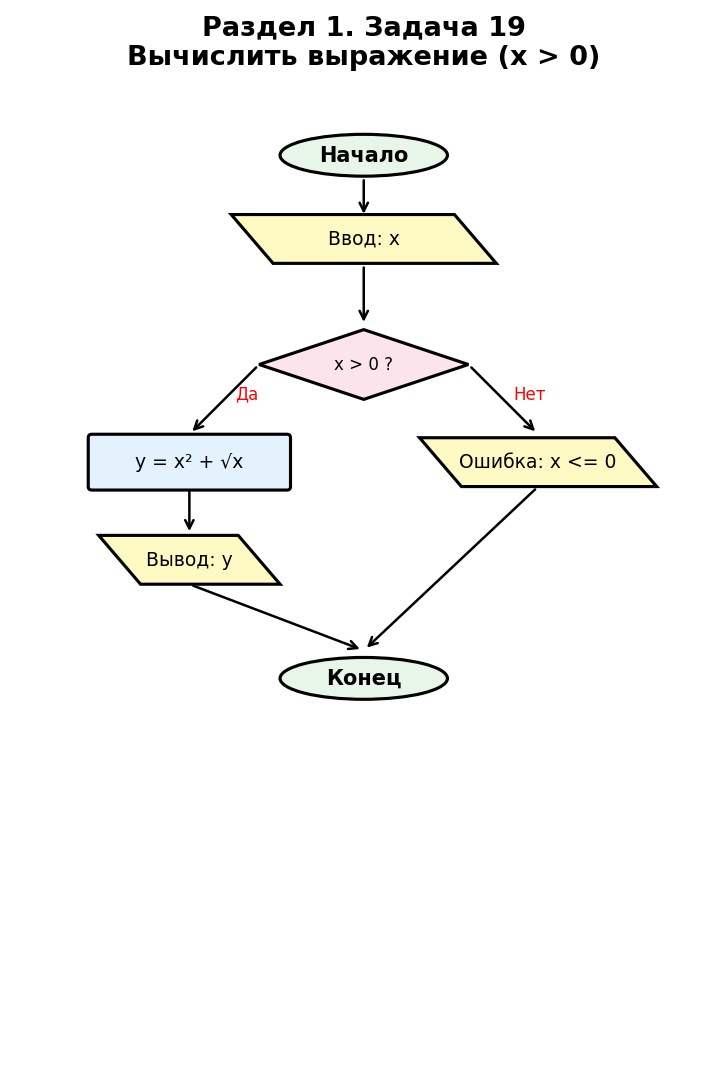
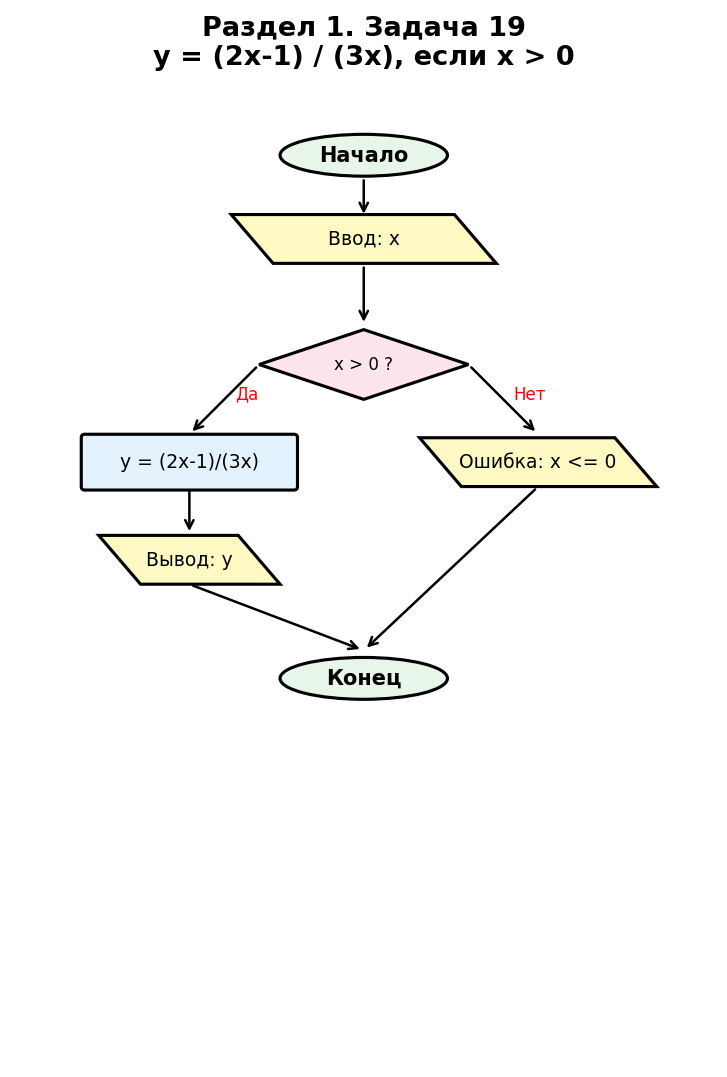
Исправлены блок-схемы задач 4,12,13,17,18,19,20,21,22 по рисункам из методички

diff --git a/lab_tasks/draw_flowcharts_extra.py b/lab_tasks/draw_flowcharts_extra.py
@@ -58,37 +58,29 @@ def save(fig, name):
     print(f"  Saved: {name}")
 
 
-# Задача 4: Трассировка алгоритма A,B,C,D
+# Задача 4 (Рисунок 1): Линейный алгоритм — перестановка значений D:=C, C:=B, B:=A
 def r1_z4():
-    fig, ax = new_fig("Раздел 1. Задача 4\nТрассировка алгоритма (A, B, C, D)", h=16)
+    fig, ax = new_fig("Раздел 1. Задача 4\nПерестановка значений (Рисунок 1)", h=12)
     cx = 5
-    oval(ax, cx, 15, "Начало")
-    arrow(ax, cx, 14.7, cx, 14.1)
-    para(ax, cx, 13.8, "Ввод: A, B, C, D")
-    arrow(ax, cx, 13.45, cx, 12.55)
-    diamond(ax, cx, 12.0, "A > B ?")
-    arrow(ax, 3.5, 12.0, 2.5, 11.0, "Да")
-    arrow(ax, 6.5, 12.0, 7.5, 11.0, "Нет")
-    rect(ax, 2.5, 10.6, "A = A + B", w=2.5)
-    rect(ax, 7.5, 10.6, "B = A + B", w=2.5)
-    arrow(ax, 2.5, 10.25, cx, 9.5)
-    arrow(ax, 7.5, 10.25, cx, 9.5)
-    diamond(ax, cx, 9.0, "C > D ?")
-    arrow(ax, 3.5, 9.0, 2.5, 8.0, "Да")
-    arrow(ax, 6.5, 9.0, 7.5, 8.0, "Нет")
-    rect(ax, 2.5, 7.6, "C = C - D", w=2.5)
-    rect(ax, 7.5, 7.6, "D = D - C", w=2.5)
-    arrow(ax, 2.5, 7.25, cx, 6.3)
-    arrow(ax, 7.5, 7.25, cx, 6.3)
-    para(ax, cx, 5.9, "Вывод: A, B, C, D")
-    arrow(ax, cx, 5.55, cx, 4.95)
-    oval(ax, cx, 4.7, "Конец")
+    oval(ax, cx, 11, "Начало")
+    arrow(ax, cx, 10.7, cx, 10.1)
+    para(ax, cx, 9.8, "Ввод: A, B, C, D")
+    arrow(ax, cx, 9.45, cx, 8.55)
+    rect(ax, cx, 8.2, "D := C")
+    arrow(ax, cx, 7.85, cx, 7.25)
+    rect(ax, cx, 6.9, "C := B")
+    arrow(ax, cx, 6.55, cx, 5.95)
+    rect(ax, cx, 5.6, "B := A")
+    arrow(ax, cx, 5.25, cx, 4.65)
+    para(ax, cx, 4.3, "Вывод: A, B, C, D")
+    arrow(ax, cx, 3.95, cx, 3.35)
+    oval(ax, cx, 3.1, "Конец")
     save(fig, "r1_z4.png")
 
 
-# Задача 12: Кусочная функция (x>0: y=x+1, иначе y=x-1)
+# Задача 12 (Рисунок 2): x > 0 → y=2x, иначе y=-2x
 def r1_z12():
-    fig, ax = new_fig("Раздел 1. Задача 12\nКусочная функция (ветвление)", h=13)
+    fig, ax = new_fig("Раздел 1. Задача 12\nВетвление (Рисунок 2)", h=13)
     cx = 5
     oval(ax, cx, 12, "Начало")
     arrow(ax, cx, 11.7, cx, 11.1)
@@ -97,8 +89,8 @@ def r1_z12():
     diamond(ax, cx, 9.0, "x > 0 ?")
     arrow(ax, 3.5, 9.0, 2.5, 8.0, "Да")
     arrow(ax, 6.5, 9.0, 7.5, 8.0, "Нет")
-    rect(ax, 2.5, 7.6, "y = x + 1", w=2.5)
-    rect(ax, 7.5, 7.6, "y = x - 1", w=2.5)
+    rect(ax, 2.5, 7.6, "y = 2x", w=2.2)
+    rect(ax, 7.5, 7.6, "y = -2x", w=2.2)
     arrow(ax, 2.5, 7.25, cx, 6.3)
     arrow(ax, 7.5, 7.25, cx, 6.3)
     para(ax, cx, 5.9, "Вывод: y")
@@ -107,88 +99,85 @@ def r1_z12():
     save(fig, "r1_z12.png")
 
 
-# Задача 13: Кусочная функция (n>0: y=n*2, n=0: y=0, n<0: y=-n)
+# Задача 13 (Рисунок 3): n>0 → "n-полож.", n<0 → "n-отриц.", n=0 → "n=0"
 def r1_z13():
-    fig, ax = new_fig("Раздел 1. Задача 13\nКусочная функция (3 ветви)", h=15)
-    cx = 5
-    oval(ax, cx, 14, "Начало")
-    arrow(ax, cx, 13.7, cx, 13.1)
-    para(ax, cx, 12.8, "Ввод: n")
-    arrow(ax, cx, 12.45, cx, 11.55)
-    diamond(ax, cx, 11.0, "n > 0 ?")
-    arrow(ax, 3.5, 11.0, 2, 10.0, "Да")
-    arrow(ax, 6.5, 11.0, 7.5, 10.0, "Нет")
-    rect(ax, 2, 9.6, "y = n * 2", w=2)
-    diamond(ax, 7.5, 9.5, "n = 0 ?", w=2.5, h=0.8)
-    arrow(ax, 6.25, 9.5, 5.5, 8.5, "Да")
-    arrow(ax, 8.75, 9.5, 9.2, 8.5, "Нет")
-    rect(ax, 5.5, 8.1, "y = 0", w=1.8)
-    rect(ax, 9.2, 8.1, "y = -n", w=1.8)
-    arrow(ax, 2, 9.25, cx, 7.0)
-    arrow(ax, 5.5, 7.75, cx, 7.0)
-    arrow(ax, 9.2, 7.75, cx, 7.0)
-    para(ax, cx, 6.6, "Вывод: y")
-    arrow(ax, cx, 6.25, cx, 5.65)
-    oval(ax, cx, 5.4, "Конец")
-    save(fig, "r1_z13.png")
-
-
-# Задача 17: Алгоритм с x и y
-def r1_z17():
-    fig, ax = new_fig("Раздел 1. Задача 17\nАлгоритм с x и y (ветвление)", h=14)
+    fig, ax = new_fig("Раздел 1. Задача 13\nОпределение знака числа (Рисунок 3)", h=14)
     cx = 5
     oval(ax, cx, 13, "Начало")
     arrow(ax, cx, 12.7, cx, 12.1)
-    para(ax, cx, 11.8, "Ввод: x, y")
+    para(ax, cx, 11.8, "Ввод: n")
     arrow(ax, cx, 11.45, cx, 10.55)
-    diamond(ax, cx, 10.0, "x > y ?")
-    arrow(ax, 3.5, 10.0, 2.5, 9.0, "Да")
+    diamond(ax, cx, 10.0, "n > 0 ?")
+    arrow(ax, 3.5, 10.0, 2, 9.0, "Да")
     arrow(ax, 6.5, 10.0, 7.5, 9.0, "Нет")
-    rect(ax, 2.5, 8.6, "z = x * y", w=2.5)
-    diamond(ax, 7.5, 8.5, "x = y ?", w=2.5, h=0.8)
-    arrow(ax, 6.25, 8.5, 5.5, 7.5, "Да")
+    para(ax, 2, 8.6, "\"n-полож.\"", w=2.5)
+    diamond(ax, 7.5, 8.5, "n < 0 ?", w=2.5, h=0.8)
+    arrow(ax, 6.25, 8.5, 5, 7.5, "Да")
     arrow(ax, 8.75, 8.5, 9, 7.5, "Нет")
-    rect(ax, 5.5, 7.1, "z = 0", w=1.8)
-    rect(ax, 9, 7.1, "z = x + y", w=2)
-    arrow(ax, 2.5, 8.25, cx, 5.9)
-    arrow(ax, 5.5, 6.75, cx, 5.9)
-    arrow(ax, 9, 6.75, cx, 5.9)
-    para(ax, cx, 5.5, "Вывод: z")
-    arrow(ax, cx, 5.15, cx, 4.55)
-    oval(ax, cx, 4.3, "Конец")
+    para(ax, 5, 7.1, "\"n-отриц.\"", w=2.5)
+    para(ax, 9, 7.1, "\"n=0\"", w=1.8)
+    arrow(ax, 2, 8.25, cx, 6.0)
+    arrow(ax, 5, 6.75, cx, 6.0)
+    arrow(ax, 9, 6.75, cx, 6.0)
+    oval(ax, cx, 5.6, "Конец")
+    save(fig, "r1_z13.png")
+
+
+# Задача 17 (Рисунок 4): Ввод x,y → x=0? → Да: Ошибка, Нет: z=y/x → Вывод
+def r1_z17():
+    fig, ax = new_fig("Раздел 1. Задача 17\nДеление y/x (Рисунок 4)", h=13)
+    cx = 5
+    oval(ax, cx, 12, "Начало")
+    arrow(ax, cx, 11.7, cx, 11.1)
+    para(ax, cx, 10.8, "Ввод: x, y")
+    arrow(ax, cx, 10.45, cx, 9.55)
+    diamond(ax, cx, 9.0, "x = 0 ?")
+    arrow(ax, 3.5, 9.0, 2.5, 8.0, "Да")
+    arrow(ax, 6.5, 9.0, 7.5, 8.0, "Нет")
+    para(ax, 2.5, 7.6, "Ошибка!", w=2.2)
+    rect(ax, 7.5, 7.6, "z = y / x", w=2.2)
+    arrow(ax, 7.5, 7.25, cx, 6.3)
+    arrow(ax, 2.5, 7.25, cx, 6.3)
+    para(ax, cx, 5.9, "Вывод: x, y, z")
+    arrow(ax, cx, 5.55, cx, 4.95)
+    oval(ax, cx, 4.7, "Конец")
     save(fig, "r1_z17.png")
 
 
-# Задача 18: Алгоритм с A,B,C (нахождение max)
+# Задача 18 (Рисунок 5): A=B → C=A+B, F=B+C | иначе B>C → A=A+B, F=A+C | иначе B=C+B, F=A+B
 def r1_z18():
-    fig, ax = new_fig("Раздел 1. Задача 18\nОпределение max(A, B, C)", h=16)
-    cx = 5
+    fig, ax = new_fig("Раздел 1. Задача 18\nАлгоритм с A, B, C (Рисунок 5)", h=16, w=8)
+    ax.set_xlim(0, 14)
+    cx = 7
     oval(ax, cx, 15, "Начало")
     arrow(ax, cx, 14.7, cx, 14.1)
     para(ax, cx, 13.8, "Ввод: A, B, C")
     arrow(ax, cx, 13.45, cx, 12.55)
-    diamond(ax, cx, 12.0, "A > B ?")
-    arrow(ax, 3.5, 12.0, 2.5, 11.0, "Да")
-    arrow(ax, 6.5, 12.0, 7.5, 11.0, "Нет")
-    rect(ax, 2.5, 10.6, "max = A", w=2)
-    rect(ax, 7.5, 10.6, "max = B", w=2)
-    arrow(ax, 2.5, 10.25, cx, 9.5)
-    arrow(ax, 7.5, 10.25, cx, 9.5)
-    diamond(ax, cx, 9.0, "C > max ?")
-    arrow(ax, 3.5, 9.0, 2.5, 8.0, "Да")
-    arrow(ax, 6.5, 9.0, 7.5, 8.0, "Нет")
-    rect(ax, 2.5, 7.6, "max = C", w=2)
-    arrow(ax, 2.5, 7.25, cx, 6.3)
-    arrow(ax, 7.5, 7.65, cx, 6.3)
-    para(ax, cx, 5.9, "Вывод: max")
-    arrow(ax, cx, 5.55, cx, 4.95)
-    oval(ax, cx, 4.7, "Конец")
+    diamond(ax, cx, 12.0, "A = B ?")
+    arrow(ax, 5.5, 12.0, 3, 11.0, "+")
+    arrow(ax, 8.5, 12.0, 10.5, 11.0, "-")
+    rect(ax, 2.2, 10.6, "C = A + B", w=2.2)
+    rect(ax, 4.2, 10.6, "F = B + C", w=2.2)
+    diamond(ax, 10.5, 10.5, "B > C ?", w=2.5, h=0.9)
+    arrow(ax, 9.25, 10.5, 7.5, 9.3, "+")
+    arrow(ax, 11.75, 10.5, 13, 9.3, "-")
+    rect(ax, 6.7, 8.9, "A = A + B", w=2.2)
+    rect(ax, 8.9, 8.9, "F = A + C", w=2.2)
+    rect(ax, 12.2, 8.9, "B = C + B", w=2.2)
+    rect(ax, 14.2, 8.9, "F = A + B", w=2.2)
+    # merge arrows
+    arrow(ax, 3, 10.25, cx, 7.5)
+    arrow(ax, 7.8, 8.55, cx, 7.5)
+    arrow(ax, 13, 8.55, cx, 7.5)
+    para(ax, cx, 7.1, "Вывод: F")
+    arrow(ax, cx, 6.75, cx, 6.15)
+    oval(ax, cx, 5.9, "Конец")
     save(fig, "r1_z18.png")
 
 
-# Задача 19: Вычислить выражение при x > 0
+# Задача 19: y = (2x - 1) / (3x), если x > 0
 def r1_z19():
-    fig, ax = new_fig("Раздел 1. Задача 19\nВычислить выражение (x > 0)", h=14)
+    fig, ax = new_fig("Раздел 1. Задача 19\ny = (2x-1) / (3x), если x > 0", h=14)
     cx = 5
     oval(ax, cx, 13, "Начало")
     arrow(ax, cx, 12.7, cx, 12.1)
@@ -197,7 +186,7 @@ def r1_z19():
     diamond(ax, cx, 10.0, "x > 0 ?")
     arrow(ax, 3.5, 10.0, 2.5, 9.0, "Да")
     arrow(ax, 6.5, 10.0, 7.5, 9.0, "Нет")
-    rect(ax, 2.5, 8.6, "y = x² + √x", w=2.8)
+    rect(ax, 2.5, 8.6, "y = (2x-1)/(3x)", w=3.0)
     para(ax, 7.5, 8.6, "Ошибка: x <= 0", w=2.8)
     arrow(ax, 2.5, 8.25, 2.5, 7.55)
     para(ax, 2.5, 7.2, "Вывод: y", w=2)
@@ -207,9 +196,9 @@ def r1_z19():
     save(fig, "r1_z19.png")
 
 
-# Задача 20: Вычислить выражение (b>0, d>0)
+# Задача 20: R = a/b - c/d, если b > 0 и d > 0
 def r1_z20():
-    fig, ax = new_fig("Раздел 1. Задача 20\nВычислить a/b - c/d (b>0, d>0)", h=14)
+    fig, ax = new_fig("Раздел 1. Задача 20\nR = a/b - c/d (b>0, d>0)", h=14)
     cx = 5
     oval(ax, cx, 13, "Начало")
     arrow(ax, cx, 12.7, cx, 12.1)
@@ -228,51 +217,60 @@ def r1_z20():
     save(fig, "r1_z20.png")
 
 
-# Задача 21: Цикл — сумма ряда (n задано)
+# Задача 21 (Рисунок 6): Цикл — S=0, k=n, while k>2: S=S+k, k=k-1
 def r1_z21():
-    fig, ax = new_fig("Раздел 1. Задача 21\nЦиклический алгоритм (сумма ряда)", h=14)
+    fig, ax = new_fig("Раздел 1. Задача 21\nЦикл: сумма от 3 до n (Рисунок 6)", h=15)
     cx = 5
-    oval(ax, cx, 13, "Начало")
-    arrow(ax, cx, 12.7, cx, 12.1)
-    para(ax, cx, 11.8, "Ввод: n")
-    arrow(ax, cx, 11.45, cx, 10.85)
-    rect(ax, cx, 10.5, "S = 0, i = 1")
-    arrow(ax, cx, 10.15, cx, 9.2)
-    diamond(ax, cx, 8.7, "i <= n ?")
+    oval(ax, cx, 14, "Начало")
+    arrow(ax, cx, 13.7, cx, 13.1)
+    para(ax, cx, 12.8, "Ввод: n")
+    arrow(ax, cx, 12.45, cx, 11.85)
+    rect(ax, cx, 11.5, "S = 0")
+    arrow(ax, cx, 11.15, cx, 10.55)
+    rect(ax, cx, 10.2, "k = n")
+    arrow(ax, cx, 9.85, cx, 9.2)
+    diamond(ax, cx, 8.7, "k > 2 ?")
     arrow(ax, 6.5, 8.7, 8, 8.7, "Нет")
     arrow(ax, cx, 8.2, cx, 7.55)
-    rect(ax, cx, 7.2, "S = S + i")
+    ax.text(cx + 0.2, 8.0, "Да", fontsize=8, color='red')
+    rect(ax, cx, 7.2, "S = S + k")
     arrow(ax, cx, 6.85, cx, 6.25)
-    rect(ax, cx, 5.9, "i = i + 1")
-    arrow(ax, cx, 5.55, 2, 5.9)
-    arrow(ax, 2, 5.9, 2, 8.7)
-    arrow(ax, 2, 8.7, 3.5, 8.7)
+    rect(ax, cx, 5.9, "k = k - 1")
+    # loop back
+    arrow(ax, cx, 5.55, 2.5, 5.55)
+    ax.annotate("", xy=(2.5, 8.7), xytext=(2.5, 5.55),
+                arrowprops=dict(arrowstyle='->', lw=1.2, color='black'))
+    ax.annotate("", xy=(3.5, 8.7), xytext=(2.5, 8.7),
+                arrowprops=dict(arrowstyle='->', lw=1.2, color='black'))
+    # "Нет" branch
     para(ax, 8, 8.3, "Вывод: S", w=2.2)
     arrow(ax, 8, 7.95, 8, 7.35)
     oval(ax, 8, 7.1, "Конец")
     save(fig, "r1_z21.png")
 
 
-# Задача 22: Определение чётности числа (по блок-схеме)
+# Задача 22 (Рисунок 7): Ввод a,b → a>b? → +: Y:=b, -: Y:=a → Вывод (нахождение min)
 def r1_z22():
-    fig, ax = new_fig("Раздел 1. Задача 22\nОпределение чётности числа", h=13)
+    fig, ax = new_fig("Раздел 1. Задача 22\nНахождение min(a,b) (Рисунок 7)", h=13)
     cx = 5
     oval(ax, cx, 12, "Начало")
     arrow(ax, cx, 11.7, cx, 11.1)
-    para(ax, cx, 10.8, "Ввод: n")
+    para(ax, cx, 10.8, "Ввод: a, b")
     arrow(ax, cx, 10.45, cx, 9.55)
-    diamond(ax, cx, 9.0, "n % 2 = 0 ?")
-    arrow(ax, 3.5, 9.0, 2.5, 8.0, "Да")
-    arrow(ax, 6.5, 9.0, 7.5, 8.0, "Нет")
-    para(ax, 2.5, 7.6, "Чётное", w=2.2)
-    para(ax, 7.5, 7.6, "Нечётное", w=2.2)
+    diamond(ax, cx, 9.0, "a > b ?")
+    arrow(ax, 3.5, 9.0, 2.5, 8.0, "+")
+    arrow(ax, 6.5, 9.0, 7.5, 8.0, "-")
+    rect(ax, 2.5, 7.6, "Y := b", w=2.2)
+    rect(ax, 7.5, 7.6, "Y := a", w=2.2)
     arrow(ax, 2.5, 7.25, cx, 6.3)
     arrow(ax, 7.5, 7.25, cx, 6.3)
-    oval(ax, cx, 6.0, "Конец")
+    para(ax, cx, 5.9, "Вывод: Y")
+    arrow(ax, cx, 5.55, cx, 4.95)
+    oval(ax, cx, 4.7, "Конец")
     save(fig, "r1_z22.png")
 
 
-print("=== Генерация дополнительных блок-схем (раздел 1) ===")
+print("=== Генерация исправленных блок-схем (раздел 1) ===")
 r1_z4()
 r1_z12()
 r1_z13()
@@ -282,4 +280,4 @@ r1_z19()
 r1_z20()
 r1_z21()
 r1_z22()
-print("\nГотово! Добавлено 9 блок-схем.")
+print("\nГотово! Обновлено 9 блок-схем.")
